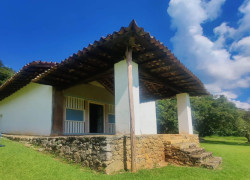
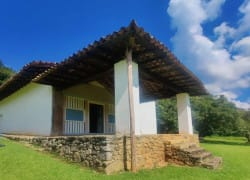
Imagens reduzidas e atualização Cultura

diff --git a/style/style.css b/style/style.css
@@ -311,3 +311,9 @@ footer i.btn{
 .dúvida{
     background-color: rgb(197, 196, 195);
 }
+
+/*Home - Cultura */
+
+#cultura .noticias_cultura{
+    border: 2px solid;
+}

diff --git a/quemsomos.php b/quemsomos.php
@@ -43,8 +43,72 @@
               <img src="https://placekitten.com/200/200" alt="" />
             </figure>
             <div class="col-lg-8 col-md-8">
-              <h2>Fulano Beltrano da Silva</h2>
-              <p>R.A.:</p>
+              <h2>Emanuele Cristina da Silva</h2>
+              <p>R.A.: 2650832313017</p>
+              <p>
+              Olá! Meu nome é Emanuele, tenho 20 años. Sempre tive interesse em entender como as coisas funcionam, então aqui estou. Aproveite nosso site!
+              </p>
+              <p>Função:</p>
+              <p>Área: <a href="#">Área</a></p>
+            </div>
+          </div>
+        </article>
+        <article>
+          <div class="row">
+            <figure class="col-lg-4 col-md-4">
+              <img src="https://placekitten.com/200/200" alt="" />
+            </figure>
+            <div class="col-lg-8 col-md-8">
+              <h2>Henrique Silva Ribeiro</h2>
+              <p>R.A.: 2650832313014</p>
+              <p>
+              Opa, e aí? Sou o Henrique, tenho 18 anos e moro nessa cidadezinha legal de São Roque. Sou uma pessoa tranquila, um pouco preguiçosa, mas te garanto que dei meu melhor para a construção desse projeto para você. Espero que goste de sua passagem por ele.
+              </p>
+              <p>Função:</p>
+              <p>Área: <a href="#">Área</a></p>
+            </div>
+          </div>
+        </article>
+        <article>
+          <div class="row">
+            <figure class="col-lg-4 col-md-4">
+              <img src="https://placekitten.com/200/200" alt="" />
+            </figure>
+            <div class="col-lg-8 col-md-8">
+              <h2>Igor Vinicius Silveira Feijó</h2>
+              <p>R.A.: 2650832313019</p>
+              <p>
+              Oi, sou Igor. Na Fatec, estudo Desenvolvimento Web de Sites e Apps. Aprendendo a programar em PHP. Espero que goste do site, foi feito com amor!
+              </p>
+              <p>Função:</p>
+              <p>Área: <a href="#">Área</a></p>
+            </div>
+          </div>
+        </article>
+        <article>
+          <div class="row">
+            <figure class="col-lg-4 col-md-4">
+              <img src="https://placekitten.com/200/200" alt="" />
+            </figure>
+            <div class="col-lg-8 col-md-8">
+              <h2>João Paulo de Sousa</h2>
+              <p>R.A.: 2650832313007</p>
+              <p>
+              Eu sou o João, tenho 29 anos, sou de Curitiba e estou aqui tentando uma vida "melhor" na segunda FATEC. Boa visualização do nosso site.
+              </p>
+              <p>Função:</p>
+              <p>Área: <a href="#">Área</a></p>
+            </div>
+          </div>
+        </article>
+        <article>
+          <div class="row">
+            <figure class="col-lg-4 col-md-4">
+              <img src="https://placekitten.com/200/200" alt="" />
+            </figure>
+            <div class="col-lg-8 col-md-8">
+              <h2>Leonardo Marques</h2>
+              <p>R.A.: 2650832313012</p>
               <p>
                 Gorem ipsum dolor sit amet, consectetur adipiscing elit. Etiam
                 eu turpis molestie, dictum est a, mattis tellus. Sed dignissim,
@@ -61,84 +125,10 @@
               <img src="https://placekitten.com/200/200" alt="" />
             </figure>
             <div class="col-lg-8 col-md-8">
-              <h2>Fulano Beltrano da Silva</h2>
-              <p>R.A.:</p>
+              <h2>Pietro Ricardo Black Fracalanza Muzy</h2>
+              <p>R.A.: 2650832313027</p>
               <p>
-                Gorem ipsum dolor sit amet, consectetur adipiscing elit. Etiam
-                eu turpis molestie, dictum est a, mattis tellus. Sed dignissim,
-                consectetur adip.
-              </p>
-              <p>Função:</p>
-              <p>Área: <a href="#">Área</a></p>
-            </div>
-          </div>
-        </article>
-        <article>
-          <div class="row">
-            <figure class="col-lg-4 col-md-4">
-              <img src="https://placekitten.com/200/200" alt="" />
-            </figure>
-            <div class="col-lg-8 col-md-8">
-              <h2>Fulano Beltrano da Silva</h2>
-              <p>R.A.:</p>
-              <p>
-                Gorem ipsum dolor sit amet, consectetur adipiscing elit. Etiam
-                eu turpis molestie, dictum est a, mattis tellus. Sed dignissim,
-                consectetur adip.
-              </p>
-              <p>Função:</p>
-              <p>Área: <a href="#">Área</a></p>
-            </div>
-          </div>
-        </article>
-        <article>
-          <div class="row">
-            <figure class="col-lg-4 col-md-4">
-              <img src="https://placekitten.com/200/200" alt="" />
-            </figure>
-            <div class="col-lg-8 col-md-8">
-              <h2>Fulano Beltrano da Silva</h2>
-              <p>R.A.:</p>
-              <p>
-                Gorem ipsum dolor sit amet, consectetur adipiscing elit. Etiam
-                eu turpis molestie, dictum est a, mattis tellus. Sed dignissim,
-                consectetur adip.
-              </p>
-              <p>Função:</p>
-              <p>Área: <a href="#">Área</a></p>
-            </div>
-          </div>
-        </article>
-        <article>
-          <div class="row">
-            <figure class="col-lg-4 col-md-4">
-              <img src="https://placekitten.com/200/200" alt="" />
-            </figure>
-            <div class="col-lg-8 col-md-8">
-              <h2>Fulano Beltrano da Silva</h2>
-              <p>R.A.:</p>
-              <p>
-                Gorem ipsum dolor sit amet, consectetur adipiscing elit. Etiam
-                eu turpis molestie, dictum est a, mattis tellus. Sed dignissim,
-                consectetur adip.
-              </p>
-              <p>Função:</p>
-              <p>Área: <a href="#">Área</a></p>
-            </div>
-          </div>
-        </article>
-        <article>
-          <div class="row">
-            <figure class="col-lg-4 col-md-4">
-              <img src="https://placekitten.com/200/200" alt="" />
-            </figure>
-            <div class="col-lg-8 col-md-8">
-              <h2>Fulano Beltrano da Silva</h2>
-              <p>R.A.:</p>
-              <p>
-                Gorem ipsum dolor sit amet, consectetur adipiscing elit. Etiam
-                eu turpis molestie, dictum est a, mattis tellus. Sed dignissim,
-                consectetur adip.
+              Olá, nobre visitante do nosso site. Eu me chamo Pietro Ricardo, tenho 18 anos e sou uma pessoa hiperativa, apaixonado pelo mundo virtual. Até!!!
               </p>
               <p>Função:</p>
               <p>Área: <a href="#">Área</a></p>

diff --git a/cultura/culturaarte.php b/cultura/culturaarte.php
@@ -54,7 +54,7 @@
                           <figure>
                               <img src="../imgs/cultura/capelasantoantônio.jpg" alt="foto do monumento">
                           </figure>
-                          <p>Lorem ipsum, dolor sit amet consectetur adipisicing elit. Qui pariatur repellat eaque non maxime nostrum voluptate delectus! Totam, doloribus quos cumque tempore quia, eligendi ipsa, architecto impedit soluta ea vel. Lorem, ipsum dolor sit amet consectetur adipisicing elit. At possimus ad quam ipsum pariatur molestias veniam nulla hic? Vitae fugiat dicta quae id incidunt quasi suscipit similique, corrupti ipsam ad.</p>
+                          <p>Construída em 1681 por Fernão Paes de Barros, o local é um dos Sítios Bandeiristas presentes no país durante o período escravista. Posteriormente, no início do século XX, em uma excursão na companhia de Mario de Andrade, Paulo Duarte notou o estado abandonado e decrépito e, através de uma coletânea de artigos, alertou o povo e o governo para o descaso com o local. Desde então, a Capela vem passando por uma restauração. O Sítio Santo Antônio serve como uma ponte para se entender os conceitos, preconceitos e hábitos da época no qual foi construído.</p>
                       </section>
                     </div>
                     <div class="row col-12">
@@ -81,7 +81,7 @@
                         <figure>
                             <img src="../imgs/cultura/coletivoentrenos.jpg" alt="foto do grupo">
                         </figure>
-                        <p>Lorem ipsum dolor sit amet consectetur adipisicing elit. Maxime expedita accusantium facere ea maiores facilis, consequatur explicabo. Enim corporis a dicta consectetur ducimus, dolorum inventore deserunt tempore esse, aspernatur consequuntur.</p>
+                        <p>Sendo um núcleo/subdivisão do Coletivo Narciso – existente desde 2010 -, o Coletivo Entre Nós é focado em abordagens sobre a memória e histórias locais e realizou inúmeras apresentações, tanto em São Roque quanto em outras cidades. Entendendo a necessidade de levar arte e fazer arte para todos, o coletivo trabalha para levar a cultura para todos os cantos.</p>
                     </section>
                     <section class="col-md-6 col-lg-4">
                         <h3>Coletivo Entre Nós</h3>

diff --git a/cultura/index.php b/cultura/index.php
@@ -20,15 +20,15 @@
       ?>
 
     <!-- Fim Header -->
-    <div class="text-center">
-        <main>
+    <div class="container text-center">
+        <main id="cultura">
             <figure>
                 <img class="img-fluid" src="../imgs/cultura/saoroque.jpg" alt="imagem inicial da página">
             </figure>
             <article>
                 <h2>Cidade de Cultura</h2>
                 <p>Fonte de renda fundamental para a nossa cidade e um de nossos maiores orgulhos, a cidade de São Roque conta com uma série única de atividades, lugares e eventos tradicionais-culturais. Não apenas ajudando no crescimento financeiro, mas colocando a nossa cidade no mapa de São Paulo como uma das principais produtoras de vinho do estado.</p>
-                <div class="row col-12">
+                <div class="row col-12 noticias_cultura">
                     <h2>Notícias</h2>
                     <div class="col-md-6 col-lg-4">
                         <section class="notícia_mobile">
